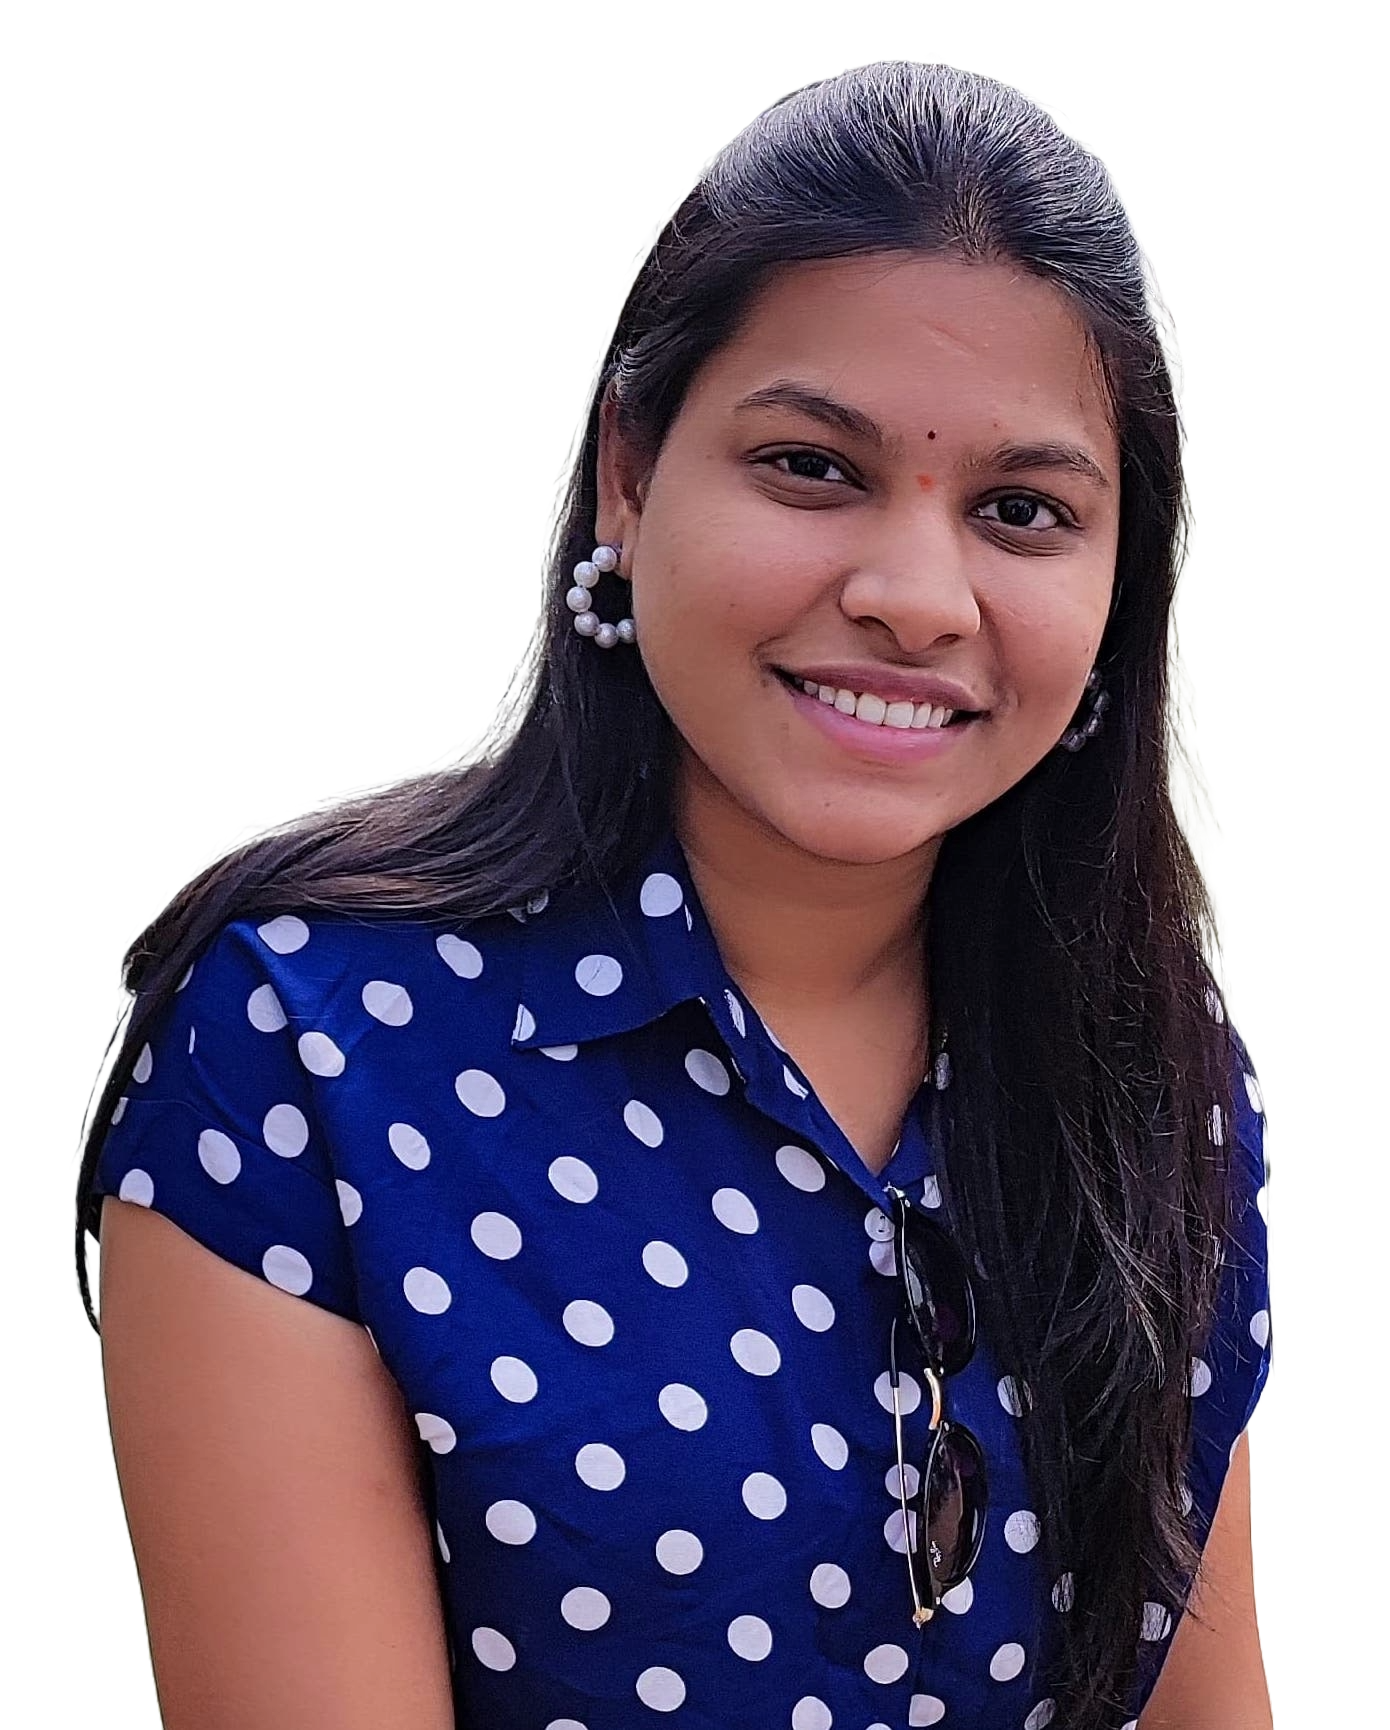
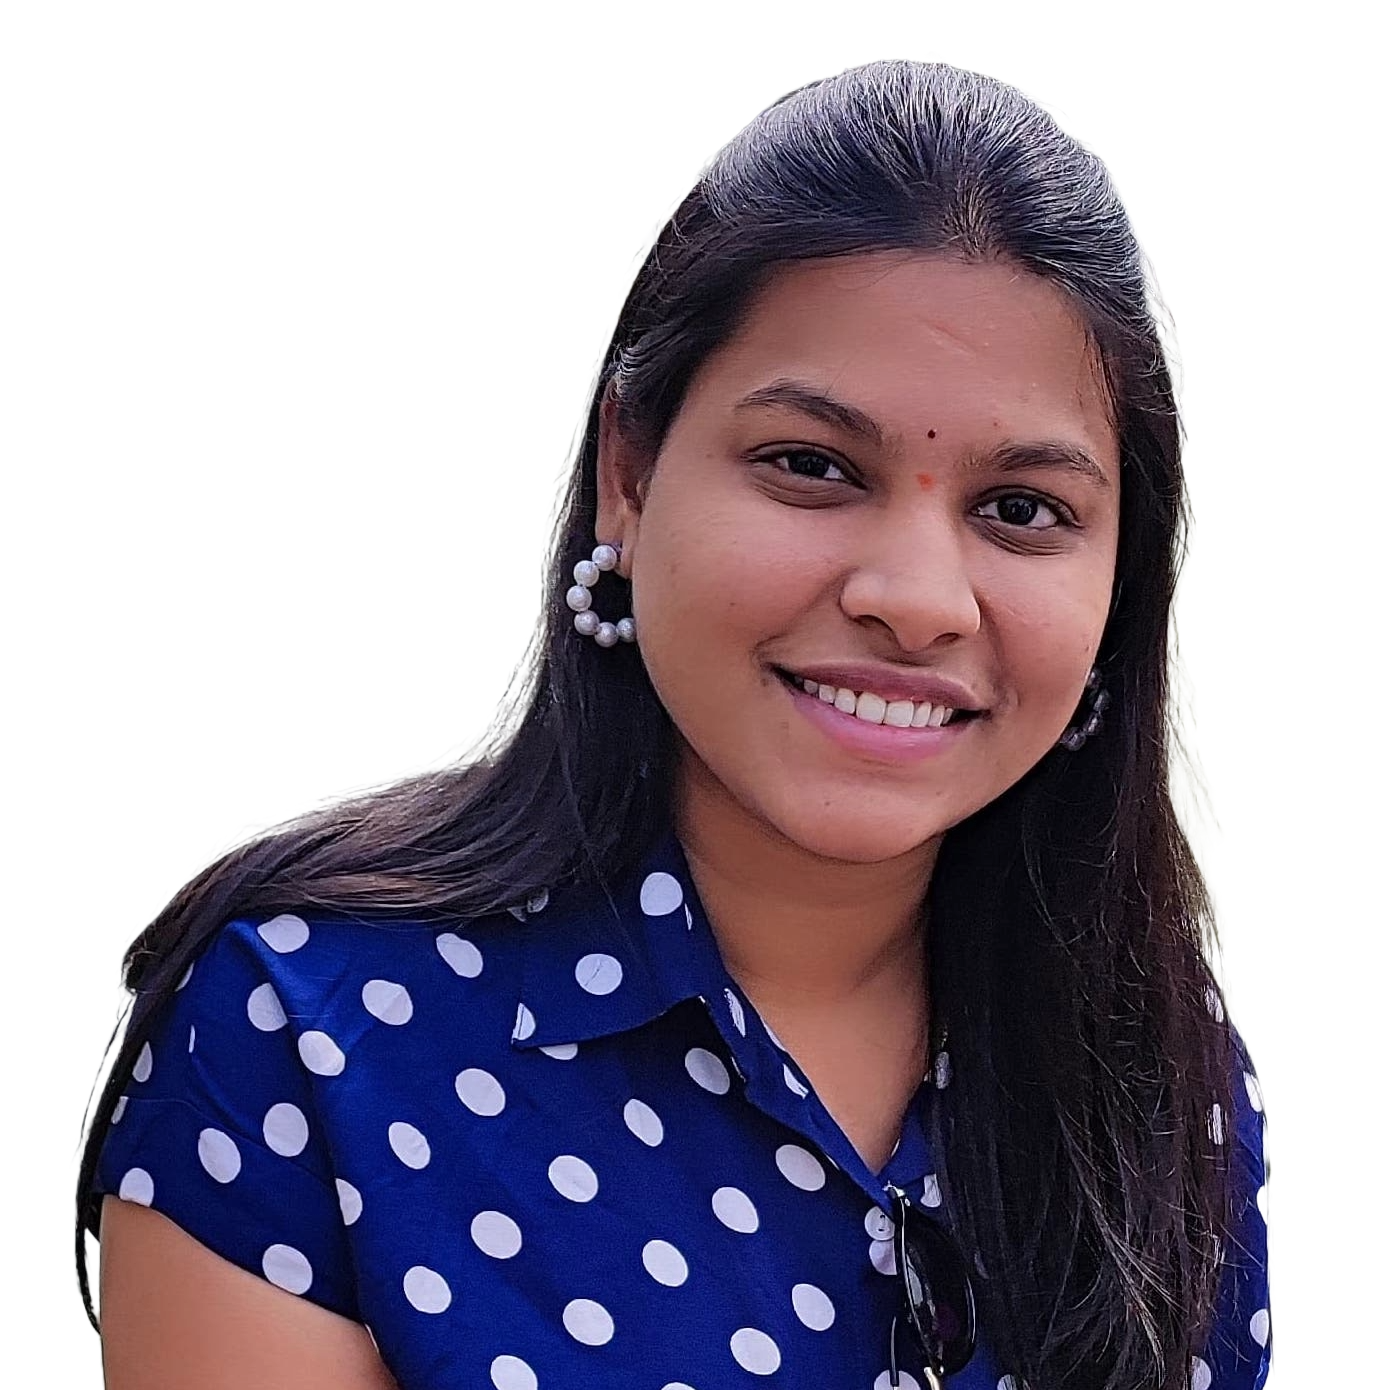
fix links and images

diff --git a/src/data/Projects.jsx b/src/data/Projects.jsx
@@ -3,29 +3,19 @@ export const Projects = [
         thumbnail: "./images/portfolio.png",
         title: "My portfolio",
         tags: ["HTML, CSS, Javascript, React, Styled Components"],
-        paragraph : "Lorem ipsum dolor sit amet consectetur adipisicing elit. Consequuntur accusantium ab repellendus minima illo. Praesentium, reprehenderit",
-        codelink: "#",
-        projectlink: "#",
+        paragraph : "This portfolio has been meticulously designed and developed using a combination of HTML5, CSS3, and JavaScript and Styled Components. From responsive layouts to seamless interactions, I've prioritized user-centric design to ensure an engaging and enjoyable experience across various devices and screen sizes.",
+        codelink: "https://github.com/sravanivundavalli/React-Portfolio",
+        projectlink: "https://vundavalli.me",
         projectlinkText: "View Project"
     },
 
     {
-        thumbnail: "./images/service2.jpg",
-        title: "Project 2",
-        tags: ["HTML, CSS, Javascript, React, Styled Components"],
-        paragraph : "Lorem ipsum dolor sit amet consectetur adipisicing elit. Consequuntur accusantium ab repellendus minima illo. Praesentium, reprehenderit",
-        codelink: "#",
-        projectlink: "#",
-        projectlinkText: "View Project"
-    },
-
-    {
-        thumbnail: "./images/service3.jpg",
-        title: "Project 3",
-        tags: ["HTML, CSS, Javascript, React, Styled Components"],
-        paragraph : "Lorem ipsum dolor sit amet consectetur adipisicing elit. Consequuntur accusantium ab repellendus minima illo. Praesentium, reprehenderit",
-        codelink: "#",
-        projectlink: "#",
+        thumbnail: "./images/youtube_clone.PNG",
+        title: "YouTube Clone 2.0",
+        tags: ["CSS, Javascript, React, Mui "],
+        paragraph : "YouTube Clone 2.0 is a web application that replicates the core features of YouTube, provides a user-friendly and feature-rich platform including video playback, search, user authentication, comments, likes/dislikes, subscriptions, and user profiles. By utilizing the power of React, Material-UI, and the extensive capabilities of RapidAPI, To ensure a modern and responsive design.",
+        codelink: "https://github.com/sravanivundavalli/Youtube-Clone",
+        projectlink: "https://youtube-clone.vundavalli.me/",
         projectlinkText: "View Project"
     },
 ]

diff --git a/src/components/sections/AboutSection.jsx b/src/components/sections/AboutSection.jsx
@@ -23,18 +23,15 @@ export const AboutSection = () =>{
             </StyleHeading>
             
             <p>
-                Lorem ipsum dolor sit amet consectetur adipisicing elit. 
-                Consequuntur accusantium ab repellendus minima illo. 
-                Praesentium, reprehenderit explicabo ratione accusamus, 
-                ab distinctio minima sint iusto, 
-                dolorum ipsa repellat soluta nihil fugiat!
+                A passionate front-end web developer with a keen eye for design and a drive for crafting user-friendly, intuitive digital experiences.
+                I've honed my skills in HTML5, CSS3, JavaScript, and various modern frameworks and libraries. 
+                I'm dedicated to staying up-to-date with the latest trends and technologies in the ever-evolving world of web development.
             </p>
             <p>
-            Lorem ipsum dolor sit amet consectetur adipisicing elit. 
-                Consequuntur accusantium ab repellendus minima illo. 
-                Praesentium, reprehenderit explicabo ratione accusamus, 
-                ab distinctio minima sint iusto, 
-                dolorum ipsa repellat soluta nihil fugiat!
+                I believe that a well-designed website is not only visually appealing but also highly functional. 
+                My goal is to create seamless, responsive, and cross-browser compatible interfaces that engage and delight users. 
+                Whether it's optimizing performance or ensuring accessibility, I'm committed to delivering top-notch results.
+                I'm not just a coder; I'm a problem solver. I thrive on challenges and enjoy collaborating with teams to bring ideas to life.
             </p>
             <CTAButton HREF = "#" target="_blank"> 
             Download Resume

diff --git a/src/components/layout/NavBar.jsx b/src/components/layout/NavBar.jsx
@@ -41,7 +41,7 @@ export const NavBar = () => {
                     {navItem.isProfile ? (
                         <NavLink href = "#">
                          <Profile>
-                            <img src= "./images/chutki.jpg" alt="Sravani Vundavalli" ></img>
+                            <img src= "./images/Sravani.png" alt="Sravani Vundavalli" ></img>
                             <span>Sravani Vundavalli</span>
                         </Profile>   
                         </NavLink>
@@ -54,14 +54,14 @@ export const NavBar = () => {
                     {navItem.hasSocialIcons && (
                     <>
                     <SocialIcons>
-                        <NavLink href="#github" target="_blank">
+                        <NavLink href="https://github.com/sravanivundavalli" target="_blank">
                         <FaGithub />
                       </NavLink>
-                     <NavLink href="#linkedin"
+                     <NavLink href="https://www.linkedin.com/in/sravanivundavalli/"
                         target="_blank">
                         <FaLinkedin />
                      </NavLink>   
-                      <NavLink href="#facebook"
+                      <NavLink href="https://www.facebook.com/sravani.vundavalli.13"
                         target="_blank">
                         <FaFacebook />
                        </NavLink>
@@ -69,7 +69,7 @@ export const NavBar = () => {
                         </>
                         )}
                         {navItem.hasCTA && (
-                  <CTAButton href="mailto:sravani.se.vundavalli@gmail.com">
+                  <CTAButton href="mailto:sravani.vundavalli.se@gmail.com">
                     Email Me
                   </CTAButton>
                 )}

diff --git a/src/components/sections/HeroSection.jsx b/src/components/sections/HeroSection.jsx
@@ -8,10 +8,10 @@ export const HeroSection = () => {
     <HeroContent>
         <h1>Sravani Vundavalli</h1>
         <h3>{"{Front-End Web Developer}"}</h3>
-        <p> HTML . CSS . JavaScript . React</p>
+        <p> HTML . CSS . JavaScript . React . MUI</p>
         <div>
             <CTAButton href="#projects"> Projects</CTAButton>
-            <CTAButton href="#Contact" primary margin = "0 0 0 20px">
+            <CTAButton href="#contact" primary margin = "0 0 0 20px">
                 Contact
              </CTAButton>
         </div>
@@ -20,13 +20,13 @@ export const HeroSection = () => {
     <FaArrowDown/>
     </StyledArrowDown>
     <HeroSocialIcons>
-        <SocialIcon href="#" target="_blank">
+        <SocialIcon href="https://github.com/sravanivundavalli" target="_blank">
             <FaGithub />
             </SocialIcon>
-        <SocialIcon href="#" target="_blank">
+        <SocialIcon href="https://www.linkedin.com/in/sravanivundavalli/" target="_blank">
             <FaLinkedin />
             </SocialIcon>
-        <SocialIcon href="#" target="_blank">
+        <SocialIcon href="https://www.facebook.com/sravani.vundavalli.13" target="_blank">
             <FaFacebook />
 
         </SocialIcon>

diff --git a/src/components/sections/ProjectsSection.jsx b/src/components/sections/ProjectsSection.jsx
@@ -15,7 +15,7 @@ export const ProjectsSection = () => {
   return (
     <>
      
-      <StyledProjectsSection id="Projects">
+      <StyledProjectsSection id="projects">
         <SectionHeading>
           <h1>Projects</h1>
           <p> These are my Projects</p>
@@ -38,13 +38,13 @@ export const ProjectsSection = () => {
                   </Tags>
                   <p>{project.paragraph}</p>
                   <div>
-                    <a href={project.codeLink} target="_blank ">
+                    <a href={project.codelink} target="_blank ">
                       <FaGithub />
                       <span>View </span>
                     </a>
-                    <a href={project.projectLink} target="_blank ">
+                    <a href={project.projectlink} target="_blank ">
                     
-                      <span>{project.projectLinkText}</span>
+                      <span>{project.projectlinkText}</span>
                       </a>
                   </div>
                 </ProjectDescription>

diff --git a/src/components/sections/ContactSection.jsx b/src/components/sections/ContactSection.jsx
@@ -24,11 +24,11 @@ export const ContactSection = () => {
               ASAP!
             </p>
             <div>
-              <a href="sravani.vundavalli.se@gmail.com">
+              <a href="mailto:sravani.vundavalli.se@gmail.com">
                 <FaEnvelope />
                 <span> sravani.vundavalli.se@gmail.com </span>
               </a>
-              <a href="#">
+              <a href="https://www.linkedin.com/in/sravanivundavalli/" target="_blank" rel="noreferrer">
                 <FaLinkedin />
                 <span> Linkedin </span>
               </a>

diff --git a/src/components/layout/Footer.jsx b/src/components/layout/Footer.jsx
@@ -25,9 +25,9 @@ export const Footer = () => {
       <StyledFooter>
         <FooterNav>
           <a href="#about">About</a>
-          <a href="#projects">projects</a>
-          <a href="#services">services</a>
-          <a href="#contact">contact</a>
+          <a href="#projects">Projects</a>
+          <a href="#services">Services</a>
+          <a href="#contact">Contact</a>
         </FooterNav>
         <CodedWith>Coded With react And Styled Components</CodedWith>
         <div>
